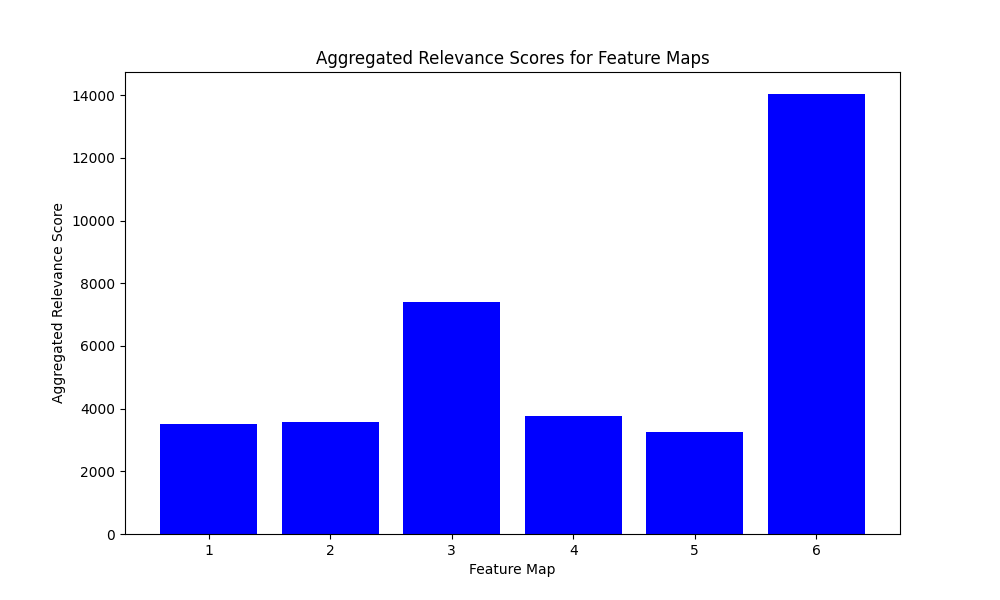
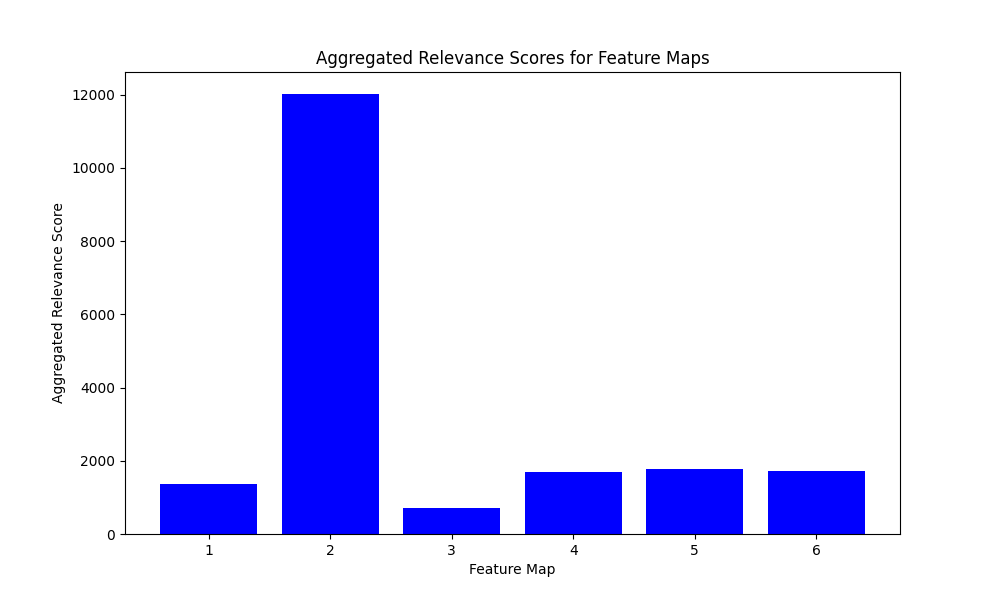
relevance lrp is messing

diff --git a/main.py b/main.py
@@ -28,8 +28,7 @@ def visualize_relevance_scores(model, input_data):
     plt.savefig('relevance_scores_feature_maps.png')
     plt.close()
     
-import matplotlib.pyplot as plt
-import torch
+
 
 def aggregate_and_plot_relevance(relevance_scores, filename='aggregated_relevance_scores.png', bar_color='blue'):
     """
@@ -45,12 +44,15 @@ def aggregate_and_plot_relevance(relevance_scores, filename='aggregated_relevanc
     if relevance_scores.dim() != 4:
         raise ValueError("Expected relevance_scores to have 4 dimensions (batch_size, num_feature_maps, height, width)")
 
+    # Verify and display the shape of the relevance scores
+    print("Shape of relevance_scores:", relevance_scores.shape)
+
     # Sum over spatial dimensions to aggregate relevance scores for each feature map
     aggregated_scores = relevance_scores.sum(dim=[2, 3])  # [batch_size, num_feature_maps]
-
+    
     # Ensure using only the first batch for visualization
     aggregated_scores = aggregated_scores[0].detach().cpu().numpy()  # Convert to numpy array for plotting
-
+    
     # Creating the bar chart
     plt.figure(figsize=(10, 6))
     feature_map_indices = range(1, aggregated_scores.size + 1)
@@ -62,6 +64,16 @@ def aggregate_and_plot_relevance(relevance_scores, filename='aggregated_relevanc
     plt.close()  # Close the figure to free up memory
     print(f"Plot saved as {filename}")
 
+# Example usage:
+# Assuming `relevance_scores` is correctly derived from the last convolutional layer output
+# relevance_scores = apply_lrp_to_last_conv_layer(model, input_data)  # Make sure this is correctly implemented
+# aggregate_and_plot_relevance(relevance_scores)
+
+def get_layers(self):
+    """Return a list of layers in the model for relevance propagation."""
+    return [self.conv1, self.conv2, self.fc1, self.fc2, self.fc3]
+
+
 
 
 
@@ -71,7 +83,8 @@ if __name__ == "__main__":
     # Initialize data loader
     data_loader = MNISTDataLoader()
     train_loader, test_loader = data_loader.load_data()
-    
+    # Add this method to your LeNet5 model if not already present.
+    LeNet5.get_layers = get_layers
 
     # Initialize and train model
     model = LeNet5()
@@ -84,9 +97,17 @@ if __name__ == "__main__":
     # Select a subset of data for LRP analysis
     images, _ = next(iter(test_loader))
     images = images.to(device)
+    # input_data = next(iter(test_loader))[0].to(device)  # Get one batch of test data
+
+    print("Output before relevance propagation:", model.last_conv_output.shape)
+    relevance_scores = apply_lrp_to_last_conv_layer(model, images)
+    print("Relevance scores shape:", relevance_scores.shape)
 
     # Apply LRP to analyze the selected subset
     relevance_scores = apply_lrp_to_last_conv_layer(model, images)
+    print("Shape of relevance_scores:", relevance_scores.shape)
+
+    
 
     # Now, `relevance_scores` contains the relevance scores for the last convolutional layer's feature maps
     # You might want to visualize these scores to understand which parts of the input image were most

diff --git a/lrp.py b/lrp.py
@@ -14,7 +14,9 @@ class LRPLinear(nn.Module):
 
     def forward(self, input):
         self.last_input = input
-        return F.linear(input, self.weight, self.bias)
+        output = F.linear(input, self.weight, self.bias)
+        self.last_output = output  # Capture output for LRP
+        return output
 
     def relprop(self, R):
         Z = torch.mm(self.last_input, torch.clamp(self.weight, min=0).t()) + self.bias + 1e-9
@@ -77,32 +79,20 @@ class LRPConv2d(nn.Module):
 
 
 def apply_lrp_to_last_conv_layer(model, input_data):
-    """
-    Apply LRP to a LeNet5 model instance focusing on the last convolutional layer.
-    
-    Args:
-        model (LeNet5): The model instance, modified for LRP.
-        input_data (Tensor): The input data for which relevance scores are to be computed.
-    
-    Returns:
-        Tensor: The relevance scores for the last convolutional layer's feature maps.
-    """
-    # 1. Perform a forward pass to capture necessary activations and outputs
+    # Complete the forward pass to get outputs.
     output = model(input_data)
-    
-    # 2. Identify the target class (for simplicity, assume the predicted class)
     _, target_class = torch.max(output, dim=1)
-    
-    # 3. Initialize relevance at the output layer (only for the target class)
     R = torch.zeros_like(output)
     R[torch.arange(input_data.shape[0]), target_class] = output[torch.arange(input_data.shape[0]), target_class]
     
-    # 4. Propagate relevance back to the last convolutional layer
-    # Note: This involves calling `relprop` on each subsequent layer starting from the output
-    # until reaching the last convolutional layer. This is a simplified overview and assumes
-    # modifications to LeNet5 and layer definitions to support such operations.
-    
-    # For demonstration purposes, assume we directly access the last convolutional layer's relevance
-    last_conv_relevance = model.last_conv_layer.relprop(R)
-    
-    return last_conv_relevance
+    # Start relevance propagation from the last to the first layer that is necessary for visualization.
+    for layer in reversed(model.get_layers()):
+        R = layer.relprop(R)
+        if isinstance(layer, LRPConv2d):  # Assuming you want to stop at the last convolution layer
+            print("Relevance at last conv layer:", R.shape)
+            break
+
+    return R
+
+
+

diff --git a/lenet_model.py b/lenet_model.py
@@ -6,23 +6,33 @@ from lrp import *
 class LeNet5(nn.Module):
     def __init__(self):
         super(LeNet5, self).__init__()
+        # Define layers with custom LRP implementations
         self.conv1 = LRPConv2d(1, 6, kernel_size=5, stride=1, padding=0)
         self.conv2 = LRPConv2d(6, 16, kernel_size=5, stride=1, padding=0)
-        self.last_conv_layer = self.conv2
-
         self.fc1 = LRPLinear(16 * 4 * 4, 120)
         self.fc2 = LRPLinear(120, 84)
         self.fc3 = LRPLinear(84, 10)
 
-    def forward(self, x):
-        x = F.max_pool2d(F.relu(self.conv1(x)), 2)
-        x = F.max_pool2d(F.relu(self.conv2(x)), 2)
-        # Optionally, store the output for visualization
-        self.last_conv_output = x.detach()
+        # Store the last convolutional layer separately if needed for specific processing
+        self.last_conv_layer = self.conv2
 
-        x = torch.flatten(x, 1)
-        x = F.relu(self.fc1(x))
-        x = F.relu(self.fc2(x))
-        x = self.fc3(x)
-        return x
+        # Optional: Create a list of all layers for easier access during LRP
+        self.layers = [self.conv1, self.conv2, self.fc1, self.fc2, self.fc3]
+
+    def forward(self, x):
+            x = F.max_pool2d(F.relu(self.conv1(x)), 2)
+            # print("After conv1:", x.shape)  # Debugging output
+            x = F.max_pool2d(F.relu(self.conv2(x)), 2)
+            # print("After conv2 (last_conv_layer):", x.shape)  # Critical to check the last conv layer output
+            self.last_conv_output = x.detach()
+            # Continue through FC layers
+            x = torch.flatten(x, 1)
+            x = F.relu(self.fc1(x))
+            x = F.relu(self.fc2(x))
+            x = self.fc3(x)
+            return x
+
+    def get_layers(self):
+        """ Return the layers for systematic access during LRP. """
+        return [self.fc3, self.fc2, self.fc1, self.conv2, self.conv1]
 
